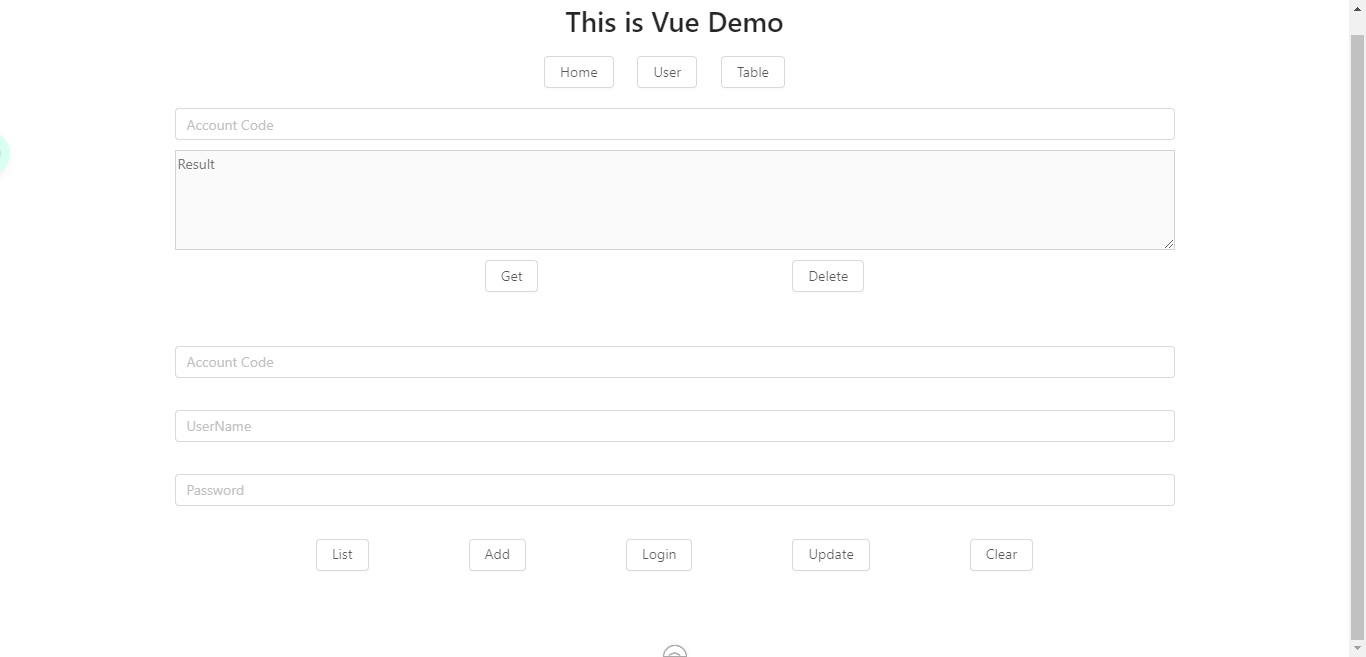
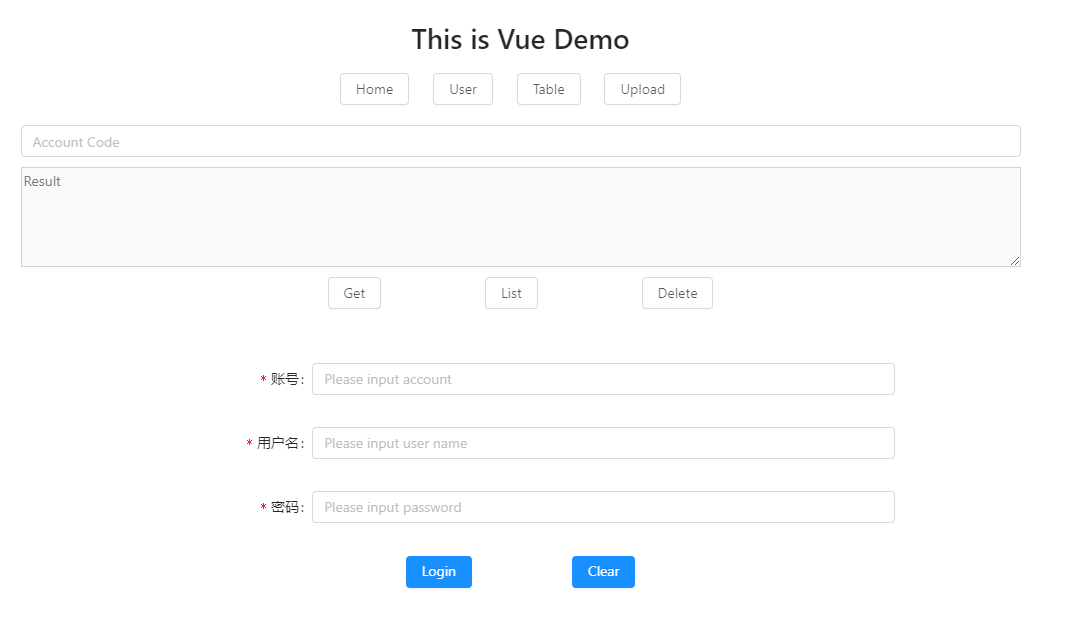
file upload

diff --git a/demo-frontend/src/views/user/index.vue b/demo-frontend/src/views/user/index.vue
@@ -6,36 +6,46 @@
                 placeholder="Result"
                 disabled="disabled"
                 style="width:1000px; height: 100px; margin-bottom: 5px"/>
-      <a-button @click="get()" style="margin-right: 250px">Get</a-button>
+      <a-button @click="get()" style="margin-right: 100px;">Get</a-button>
+      <a-button @click="list()" style="margin-right: 100px">List</a-button>
       <a-button @click="remove()">Delete</a-button>
     </div>
 
     <a-form :form="form">
-      <a-form-item>
+      <a-form-item
+        label="账号"
+        :label-col="formItemLayout.labelCol"
+        :wrapper-col="formItemLayout.wrapperCol"
+      >
         <a-input
-          placeholder="Account Code"
+          placeholder="Please input account"
           v-decorator="['accountCode', { rules: [{ required: true, message: '账号不能为空!' }] }]"
         />
       </a-form-item>
-      <a-form-item>
+      <a-form-item
+        label="用户名"
+        :label-col="formItemLayout.labelCol"
+        :wrapper-col="formItemLayout.wrapperCol"
+      >
         <a-input
-          placeholder="UserName"
+          placeholder="Please input user name"
           v-decorator="['userName', { rules: [{ required: true, message: '用户名不能为空!' }] }]"
         />
       </a-form-item>
-      <a-form-item>
+      <a-form-item
+        label="密码"
+        :label-col="formItemLayout.labelCol"
+        :wrapper-col="formItemLayout.wrapperCol"
+      >
         <a-input
-          placeholder="Password"
+          placeholder="Please input password"
           v-decorator="['password', { rules: [{ required: true, message: '密码不能为空!' }] }]"
         />
       </a-form-item>
 
       <a-form-item>
-        <a-button @click="list()" style="margin-right: 100px">List</a-button>
-        <a-button @click="add()" style="margin-right: 100px">Add</a-button>
-        <a-button @click="login()" style="margin-right: 100px">Login</a-button>
-        <a-button @click="update()" style="margin-right: 100px">Update</a-button>
-        <a-button @click="clear()">Clear</a-button>
+        <a-button type="primary" @click="login()" style="margin-right: 100px">Login</a-button>
+        <a-button type="primary" @click="clear()">Clear</a-button>
       </a-form-item>
     </a-form>
   </div>
@@ -49,7 +59,11 @@ export default {
     return {
       backResult: '',
       accountCode: '',
-      form: this.$form.createForm(this)
+      form: this.$form.createForm(this),
+      formItemLayout: {
+      labelCol: { span: 7 },
+      wrapperCol: { span: 14 }
+    }
     }
   },
   methods: {

diff --git a/demo-frontend/src/views/upload/index.vue b/demo-frontend/src/views/upload/index.vue
@@ -1,10 +1,67 @@
 <template>
+  <div class="clearfix">
+    <a-upload :file-list="fileList" :remove="handleRemove" :before-upload="beforeUpload">
+      <a-button> <a-icon type="upload" /> Select File </a-button>
+    </a-upload>
 
+    <a-button
+      type="primary"
+      :disabled="fileList.length === 0"
+      :loading="uploading"
+      style="margin-top: 16px"
+      @click="handleUpload"
+    >
+      {{ uploading ? 'Uploading' : 'Start Upload' }}
+    </a-button>
+  </div>
 </template>
 
 <script>
 export default {
-  name: "index"
+  data() {
+    return {
+      fileList: [],
+      uploading: false
+    }
+  },
+  methods: {
+    handleRemove(file) {
+      const index = this.fileList.indexOf(file);
+      const newFileList = this.fileList.slice();
+      newFileList.splice(index, 1);
+      this.fileList = newFileList;
+    },
+    beforeUpload(file) {
+      this.fileList = [...this.fileList, file];
+      return false;
+    },
+    handleUpload() {
+      const { fileList } = this;
+      const formData = new FormData();
+      fileList.forEach(file => {
+        formData.append('files[]', file);
+      });
+      this.uploading = true;
+
+      /*
+      // You can use any AJAX library you like
+      reqwest({
+        url: 'https://www.mocky.io/v2/5cc8019d300000980a055e76',
+        method: 'post',
+        processData: false,
+        data: formData,
+        success: () => {
+          this.fileList = [];
+          this.uploading = false;
+          this.$message.success('upload successfully.');
+        },
+        error: () => {
+          this.uploading = false;
+          this.$message.error('upload failed.');
+        },
+      });*/
+    }
+  }
 }
 </script>
 

diff --git a/demo-frontend/src/views/table/userModal.vue b/demo-frontend/src/views/table/userModal.vue
@@ -74,7 +74,7 @@ export default {
       formItemLayout: {
         labelCol: { span: 7 },
         wrapperCol: { span: 14 }
-      },
+      }
     }
   },
   methods: {
@@ -83,12 +83,28 @@ export default {
       this.isDetail = false
       this.isEdit = false
       this.form.resetFields()
+      this.$parent.refresh()
     },
     ok() {
       this.form.validateFields((errors, values) => {
         if (!errors) {
           const { type } = this
           switch (type) {
+            case 'add':
+              addUser(values).then(res =>{
+                switch (res) {
+                  case 1 :
+                    this.$message.success('新增成功')
+                    break
+                  case 2 :
+                    this.$message.error('账号重复')
+                    break
+                  case 0 :
+                    this.$message.error('新增失败')
+                    break
+                }
+              })
+              break
             case 'edit':
               updateUser(values).then(res =>{
                 if (res === 1){
@@ -103,6 +119,7 @@ export default {
           return false
         }
       })
+      this.cancel()
     },
     paramReceive (type, data) {
       this.type = type

diff --git a/demo-frontend/src/views/table/index.vue b/demo-frontend/src/views/table/index.vue
@@ -72,8 +72,14 @@ export default {
     onSearch() {
 
     },
+    async refresh () {
+      await this.operationClick('reset')
+    },
     async operationClick (type, record) {
       switch (type) {
+        case 'reset':
+          this.created()
+          break
         case 'add':
           console.log('add')
           this.$refs.userModal.paramReceive(type, record, false)

diff --git a/demo-manager/src/main/java/xyz/greatinvincible/entity/Files.java b/demo-manager/src/main/java/xyz/greatinvincible/entity/Files.java
@@ -1,4 +1,30 @@
 package xyz.greatinvincible.entity;
 
+import lombok.AllArgsConstructor;
+import lombok.Data;
+import lombok.NoArgsConstructor;
+
+import javax.persistence.GeneratedValue;
+import javax.persistence.Id;
+import java.util.Date;
+
+@Data
+@NoArgsConstructor
+@AllArgsConstructor
 public class Files {
+
+    @Id
+    @GeneratedValue
+    private Integer ID;
+
+    private String accountCode;
+
+    private String fileName;
+
+    private Date inTime;
+
+    private String minioBucket;
+
+    private String minioPath;
+
 }

diff --git a/demo-manager/src/main/java/xyz/greatinvincible/controller/MessageController.java b/demo-manager/src/main/java/xyz/greatinvincible/controller/MessageController.java
@@ -8,13 +8,13 @@ import org.springframework.web.bind.annotation.RestController;
 
 @RestController
 @RequestMapping(value = "/redis")
-public class RedisMessageController {
+public class MessageController {
 
     private static String CHANNEL = "budai";
 
     private RedisTemplate<String, String> redisTemplate;
 
-    public RedisMessageController(RedisTemplate<String, String> redisTemplate) {
+    public MessageController(RedisTemplate<String, String> redisTemplate) {
         this.redisTemplate = redisTemplate;
     }
 

diff --git a/demo-manager/src/main/java/xyz/greatinvincible/controller/FilesController.java b/demo-manager/src/main/java/xyz/greatinvincible/controller/FilesController.java
@@ -1,4 +1,17 @@
 package xyz.greatinvincible.controller;
 
+import org.springframework.web.bind.annotation.GetMapping;
+import org.springframework.web.bind.annotation.PostMapping;
+import org.springframework.web.bind.annotation.RequestMapping;
+import org.springframework.web.bind.annotation.RestController;
+
+@RestController
+@RequestMapping(value = "/files")
 public class FilesController {
+
+    @PostMapping("/upload")
+    public boolean Upload(Object obj) {
+
+        return false;
+    }
 }

diff --git a/demo-manager/src/main/java/xyz/greatinvincible/utils/RedisCacheManager.java b/demo-manager/src/main/java/xyz/greatinvincible/utils/RedisCacheManager.java
@@ -29,6 +29,9 @@ public class RedisCacheManager {
 
     }
 
+    /**
+     * 删除数据
+     */
     public void Delete(String key) {
         redisTemplate.opsForValue().getOperations().delete(key);
     }

diff --git a/demo-manager/src/main/java/xyz/greatinvincible/mapper/FilesMapper.java b/demo-manager/src/main/java/xyz/greatinvincible/mapper/FilesMapper.java
@@ -1,4 +1,7 @@
 package xyz.greatinvincible.mapper;
 
-public class FilesMapper {
+import org.apache.ibatis.annotations.Mapper;
+
+@Mapper
+public interface FilesMapper {
 }

diff --git a/demo-manager/src/main/java/xyz/greatinvincible/services/Impl/FilesServiceImpl.java b/demo-manager/src/main/java/xyz/greatinvincible/services/Impl/FilesServiceImpl.java
@@ -1,4 +1,7 @@
 package xyz.greatinvincible.services.Impl;
 
+import org.springframework.stereotype.Service;
+
+@Service
 public class FilesServiceImpl {
 }
